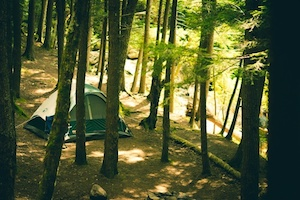
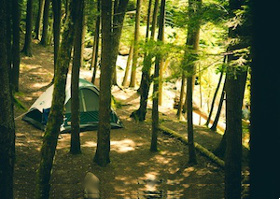
reduced width of images and changed header color

diff --git a/travel.html b/travel.html
@@ -4,7 +4,6 @@
 <head>
   <meta charset='utf-8' />
   <link href='https://fonts.googleapis.com/css?family=Raleway:700,300|Sansita+One' rel='stylesheet' type='text/css'>
-  <!-- <link href='https://fonts.googleapis.com/css?family=Raleway:500' rel='stylesheet' type='text/css'> -->
   <link rel="stylesheet" type="text/css" href="styles/normalize.css">
   <link rel="stylesheet" type="text/css" href="styles/main.css">
   <meta name="viewport" content="width=device-width, initial-scale=1.0">
@@ -61,7 +60,7 @@
             <label for="cars" id="cars-tab" class="tab">Cars</label>
           </div>
           <div class="panels">
-            <!-- FLIGHTS -->
+            
             <div id="flights-panel" class="panel active">
               <div class="form">
                 <label class="form-label">From</label>
@@ -80,11 +79,11 @@
                 <input class="form-input" type="text" name="return" required="required" tabindex="4" placeholder="mm-dd-yyyy">
               </div>
               <div class="button-center">
-                <!-- <div class="form"> -->
+                
                 <button class="button plane" tabindex="5">Search</button>
               </div>
             </div>
-            <!-- HOTELS -->
+            
 
             <div id="hotels-panel" class="panel">
               <div class="form">
@@ -108,7 +107,7 @@
               </div>
             </div>
 
-            <!-- CARS -->
+            
             <div id="cars-panel" class="panel">
               <div class="form">
                 <label class="form-label">From</label>
@@ -179,13 +178,13 @@
     </div>
   </div>
   <div class="deals-panel-right">
-    <div class="deals-header"> Best Selling Action and Adventure Vacations </div>
+    <div class="deals-header"> Action and Adventure Vacations </div>
     <div class="deals-panel-flex">
 
 
       <div class="fig-container">
         <figure class="figure">
-          <img class="fig-image-rectangle" src="images/skilift.jpg">
+          <img class="fig-image-rectangle" src="images/skilift2.jpg">
           <figcaption class="fig-img-caption">
             <span class="location-relax"><span class="fig-location">Big Sky Ski and Stay</span>
             <br>Big Sky, MT
@@ -194,7 +193,7 @@
       </div>
       <div class="fig-container">
         <figure class="figure">
-          <img class="fig-image-rectangle" src="images/hiking.jpg">
+          <img class="fig-image-rectangle" src="images/hiking2.jpg">
           <figcaption class="fig-img-caption">
             <span class="location-relax"><span class="fig-location">Pure Vida Adventures</span>
             <br>Sedona, AZ
@@ -203,7 +202,7 @@
       </div>
       <div class="fig-container">
         <figure class="figure">
-          <img class="fig-image-rectangle" src="images/camping.jpg">
+          <img class="fig-image-rectangle" src="images/camping2.jpg">
           <div class="fig-img-banner">Great for Families!</div>
           <figcaption class="fig-img-caption">
             <span class="location-relax"><span class="fig-location">Yosemite Camping Tour</span>

diff --git a/hawaii.html b/hawaii.html
@@ -4,7 +4,6 @@
 <head>
   <meta charset='utf-8' />
   <link href='https://fonts.googleapis.com/css?family=Raleway:700,300|Sansita+One' rel='stylesheet' type='text/css'>
-  <!-- <link href='https://fonts.googleapis.com/css?family=Raleway:500' rel='stylesheet' type='text/css'> -->
   <link rel="stylesheet" type="text/css" href="styles/normalize.css">
   <link rel="stylesheet" type="text/css" href="styles/main.css">
   <meta name="viewport" content="width=device-width, initial-scale=1.0">
@@ -44,7 +43,7 @@
     </nav>
   </header>
 
-  <!-- <div class="locale-header"> Relaxation Destination </div> -->
+
   <div class="main-container">
     <div class="select-flex">
 

diff --git a/styles/main.css b/styles/main.css
@@ -16,7 +16,6 @@ html {
 body {
   -webkit-font-smoothing: antialiased;
   background-image: url("../images/whitediamond.png");
-  /* opacity: 0.5; */
   font-family: 'Raleway', sans-serif;
   max-width: 1500px;
   min-height: 100%;
